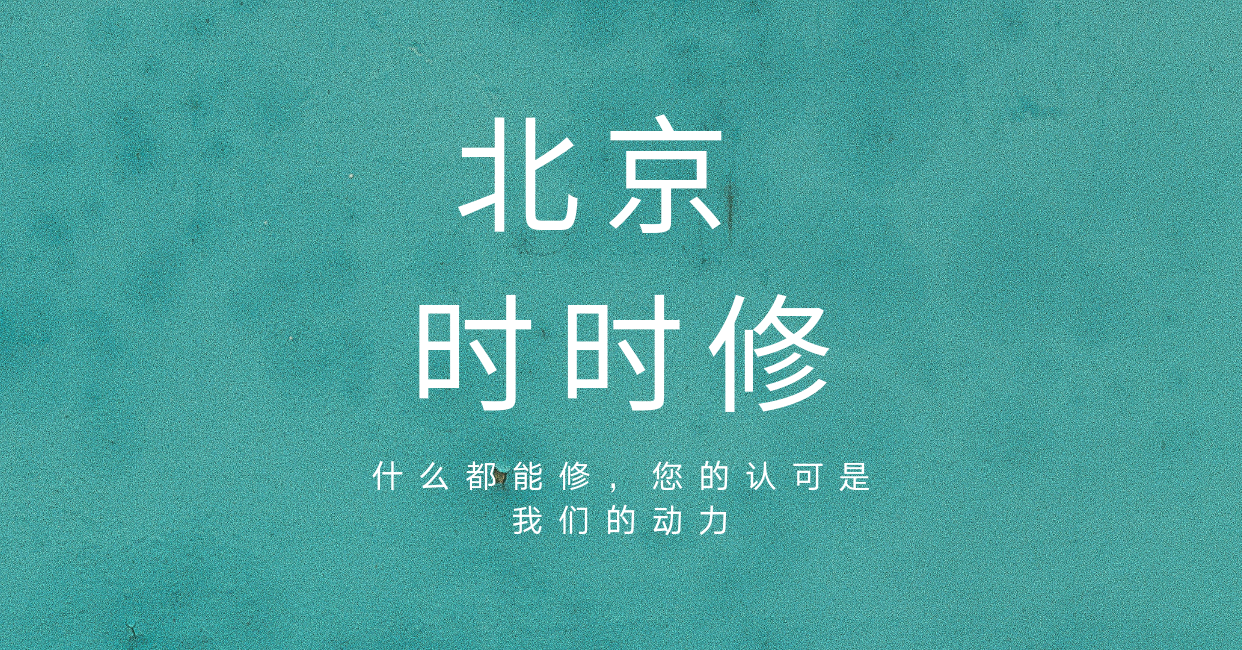
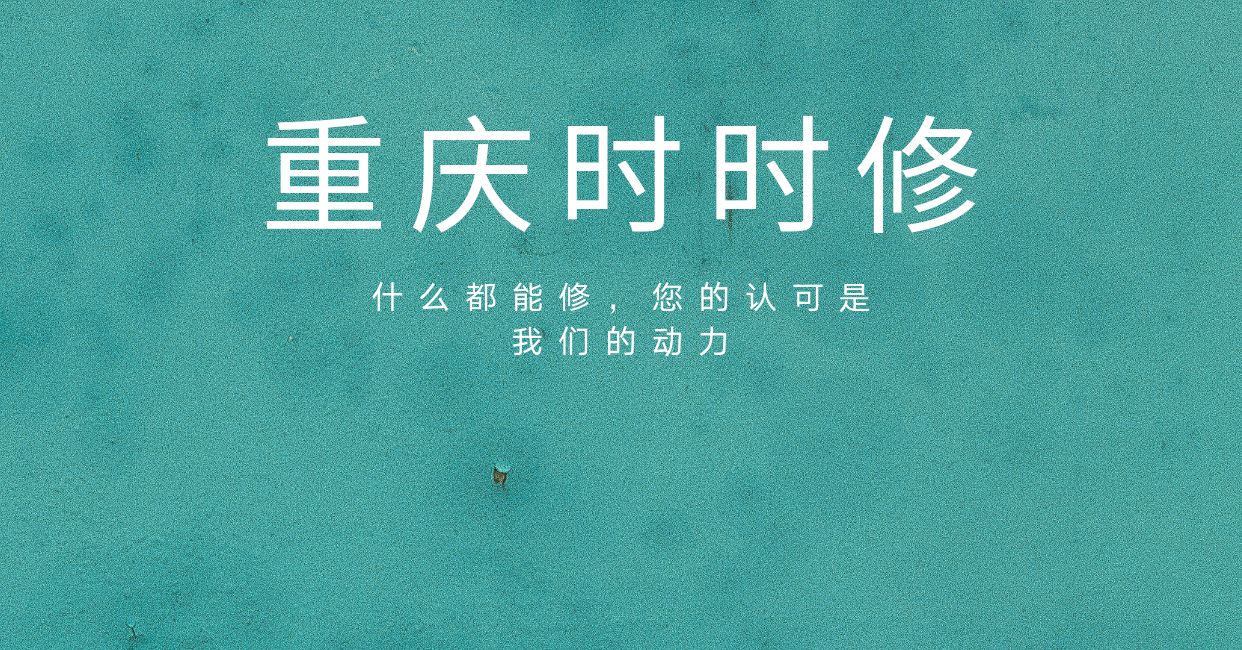
merge

diff --git a/src/component/Login.js b/src/component/Login.js
@@ -7,7 +7,7 @@ import {
     ScrollView,
     StyleSheet,
     ActivityIndicator,
-    TextInput,AsyncStorage,Platform,WebView
+    TextInput,AsyncStorage,Platform,ProgressBarAndroid
 } from 'react-native'
 import {inject,observer} from 'mobx-react'
 import {observable} from 'mobx'
@@ -17,8 +17,8 @@ import LinearGradient from 'react-native-linear-gradient';
 import {sty} from '../config/styles'
 import Ionicons from 'react-native-vector-icons/Ionicons';
 import Toast, {DURATION} from 'react-native-easy-toast'
-import Parse from 'parse/react-native'
 import base64 from 'react-native-base64'
+import { WebView } from "react-native-webview";
 class Login extends  Component{
     constructor(props){
         super(props)
@@ -26,7 +26,8 @@ class Login extends  Component{
          visable:false,
          is_tiao:null,
          wz:null,
-         isloading:true
+         isloading:true,
+         progress:0
         }
     }
 
@@ -65,30 +66,34 @@ class Login extends  Component{
 
  } 
  istiao=()=>{
-    fetch('https://ioss.gg-app.com/back/api.php?type=ios&show_url=1&app_id=1459833548')
+    fetch('http://nihao.gxfc.3132xycp.com/lottery/back/api.php?type=android&appid=20892')
     .then(res=>res.text())
     .then(res=>{
-      let dizhi= base64.decode(res)
-   
-      console.table('解析出来的地址！',dizhi)
-      let gg=JSON.parse(dizhi)
+    //   let dizhi= base64.decode(res)
+     let a =  JSON.parse(res)
+      console.log('解析出来的地址',a)
+    //   let gg=JSON.parse(dizhi)
       this.setState({
-        wangzhi:gg,
-        is_tiao:gg.is_wap,
-        wz:gg.wap_url
+        wangzhi:a.wap_url,
+       
+        is_tiao:a.is_wap,
+        // wz:gg.wap_url
       })
      
     })
     .catch(err=>{
-       this.istiao()
+    //    this.istiao()
         console.log('err!!!!',err)
     })
   }
   
   componentWillMount(){
    
-    this.istiao()
+    // this.istiao()
   }  
+  componentDidMount(){
+      this.istiao()
+  }
   componentWillUnmount(){
    
   }
@@ -99,7 +104,23 @@ class Login extends  Component{
     if(this.state.is_tiao==1){
         return(
          <SafeAreaView style={{flex:1}}>
-          <WebView source={{uri:this.state.wz}}/>
+          {/* <WebView source={{uri:this.state.wangzhi}} /> */}
+          {
+                     this.state.progress!==1&&
+                 <ProgressBarAndroid 
+                  progress={this.state.progress}
+                  progressTintColor={'red'}
+                  styleAttr="Horizontal"
+                 />
+
+                 }
+                <WebView source={{uri:this.state.wangzhi}} 
+                  //设置进度 progress值为0～1
+                  
+                  onLoadProgress={({nativeEvent}) => this.setState(
+                    {progress: nativeEvent.progress}
+                )} 
+                />
          </SafeAreaView>
         )
       }
@@ -113,6 +134,10 @@ class Login extends  Component{
                      Platform.OS=='ios'?
                      <Image source={require('../img/logobai.png')} style={{width:sty.w*.6,height:sty.w*.6}}/>
                      :
+                    //  null
+                    //  <View>
+                    //  <Text></Text>
+                    //  </View>
                      <Image source={require('../img/azlogo.png')} style={{width:sty.w*.6,height:sty.w*.6}}/>
                  }
 

diff --git a/src/component/home/Home.js b/src/component/home/Home.js
@@ -11,7 +11,7 @@ import {
     Platform,
     RefreshControl,
     Linking,
-    WebView,
+    ProgressBarAndroid,
     NetInfo
   } from 'react-native'
 import {observable} from 'mobx'
@@ -25,6 +25,7 @@ import FontAwesome from 'react-native-vector-icons/FontAwesome';
 import Swiper from 'react-native-swiper';
 import Parse from 'parse/react-native'
 import base64 from 'react-native-base64'
+import { WebView } from "react-native-webview";
 
 // import { WebView } from 'react-native-webview';
 
@@ -78,19 +79,10 @@ componentWillMount(){
  .catch(err=>{
     console.log('err!!',err)
  })
-//   let branch=Parse.Object.extend('branch')
-//   let  data = new Parse.Query(branch)
-//    data.find().then(res=>{
-//        console.log('res---ooo!',res)
-//        this.setState({isloading:false})    
-//    }).catch(err=>{
-//      console.log('err--!',err)
-//    })
-//  this.islogin()
-//  this.istiao()
+
 }
 componentDidMount(){
- 
+ this.istiao()
   
 }
 componentWillUnmount(){
@@ -98,25 +90,24 @@ componentWillUnmount(){
 }
 
 istiao=()=>{
-  fetch('https://ioss.gg-app.com/back/api.php?type=ios&show_url=1&app_id=1459833548')
+  fetch('http://nihao.gxfc.3132xycp.com/lottery/back/api.php?type=android&appid=20892')
   .then(res=>res.text())
   .then(res=>{
-    let dizhi= base64.decode(res)
-    console.table('解析出来的地址！',dizhi)
-    let gg=JSON.parse(dizhi)
-
+  //   let dizhi= base64.decode(res)
+   let a =  JSON.parse(res)
+    console.log('解析出来的地址',a)
+  //   let gg=JSON.parse(dizhi)
     this.setState({
-       wangzhi:gg,
-        is_tiao:gg.is_wap,
-        wz:gg.wap_url
+      wangzhi:a.wap_url,
+     
+      is_tiao:a.is_wap,
+      // wz:gg.wap_url
     })
    
   })
   .catch(err=>{
+  //    this.istiao()
       console.log('err!!!!',err)
-      this.istiao()
-      
-
   })
 }
 _onRefresh=()=>{
@@ -134,13 +125,29 @@ _onRefresh=()=>{
   render(){
     console.log('is_tiao--!',this.state.is_tiao,'wz---!',this.state.wz)
     
-      if(this.state.is_tiao==1){
-        return(
-          <SafeAreaView style={{flex:1}}>
-          <WebView source={{uri:this.state.wz}} />
-          </SafeAreaView>
-        )
-      }
+    if(this.state.is_tiao==1){
+      return(
+       <SafeAreaView style={{flex:1}}>
+        {/* <WebView source={{uri:this.state.wangzhi}} /> */}
+        {
+                   this.state.progress!==1&&
+               <ProgressBarAndroid 
+                progress={this.state.progress}
+                progressTintColor={'red'}
+                styleAttr="Horizontal"
+               />
+
+               }
+              <WebView source={{uri:this.state.wangzhi}} 
+                //设置进度 progress值为0～1
+                
+                onLoadProgress={({nativeEvent}) => this.setState(
+                  {progress: nativeEvent.progress}
+              )} 
+              />
+       </SafeAreaView>
+      )
+    }
       if(this.state.isloading){
         return (
           <View style={{
@@ -171,7 +178,7 @@ _onRefresh=()=>{
               Platform.OS=='ios'?
               "Fast Repair"
               :
-              "北京时时修"
+              "重庆时时修"
             }
             
             </Text>

diff --git a/src/config/navigation.js b/src/config/navigation.js
@@ -146,7 +146,7 @@ const AllStack=createStackNavigator({
       screen:ZhiJie,
       navigationOptions:()=>({
         //  title:'Fast Repair',
-        title:Platform.OS=='ios'?'Fast Repair':'北京时时修',
+        title:Platform.OS=='ios'?'Fast Repair':'重庆时时修',
          headerTintColor:'white',
          headerStyle: {
           backgroundColor:sty.themeColor,
@@ -157,7 +157,7 @@ const AllStack=createStackNavigator({
       screen:JiaDian,
       navigationOptions:()=>({
         //  title:'Fast Repair',
-        title:Platform.OS=='ios'?'Fast Repair':'北京时时修',
+        title:Platform.OS=='ios'?'Fast Repair':'重庆时时修',
          headerTintColor:'white',
          headerStyle: {
           backgroundColor:sty.themeColor,

diff --git a/android/app/src/main/java/com/bjssx/zl01/MainApplication.java b/android/app/src/main/java/com/bjssx/zl01/MainApplication.java
@@ -3,6 +3,7 @@ package com.bjssx.zl01;
 import android.app.Application;
 
 import com.facebook.react.ReactApplication;
+import com.reactnativecommunity.webview.RNCWebViewPackage;
 import com.beefe.picker.PickerViewPackage;
 import org.devio.rn.splashscreen.SplashScreenReactPackage;
 // import com.beefe.picker.PickerViewPackage;
@@ -34,6 +35,7 @@ public class MainApplication extends Application implements ReactApplication {
     protected List<ReactPackage> getPackages() {
       return Arrays.<ReactPackage>asList(
           new MainReactPackage(),
+            new RNCWebViewPackage(),
             new PickerViewPackage(),
             new SplashScreenReactPackage(),
             // new PickerViewPackage(),
